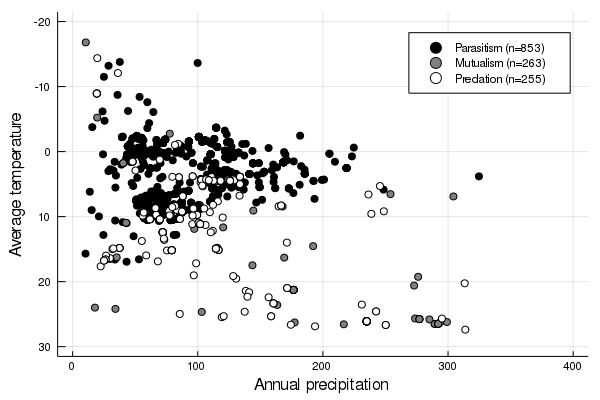
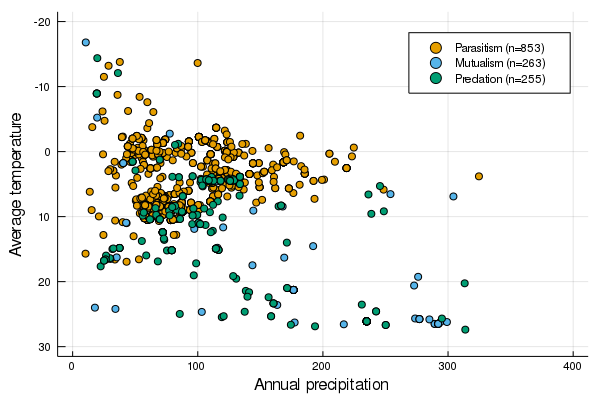
update figure legend

diff --git a/manuscript.md b/manuscript.md
@@ -63,6 +63,10 @@ in the study of ecological networks.
 
 ![fig1](figures/figure_01_a.png){#fig:temporal}
 
+## Different interaction types have been studied at different places
+
+![Each point on the map corresponds to a network with parasitic, mutualistic, and predatory interactions. It is noteworty that the spatial coverage of these types of interactions is uneven; the Americas have almost no parasitic network, for example. Some places have barely been studied at all, including Africa and Eastern Asia. This concentration of networks around rich countries speaks to an inadequate coverage of the diversity of landscapes on Earth.](figures/figure_01_c.png.png){#fig:spatial}
+
 ## Networks follow the same scaling
 
 @BrosOstl04 
